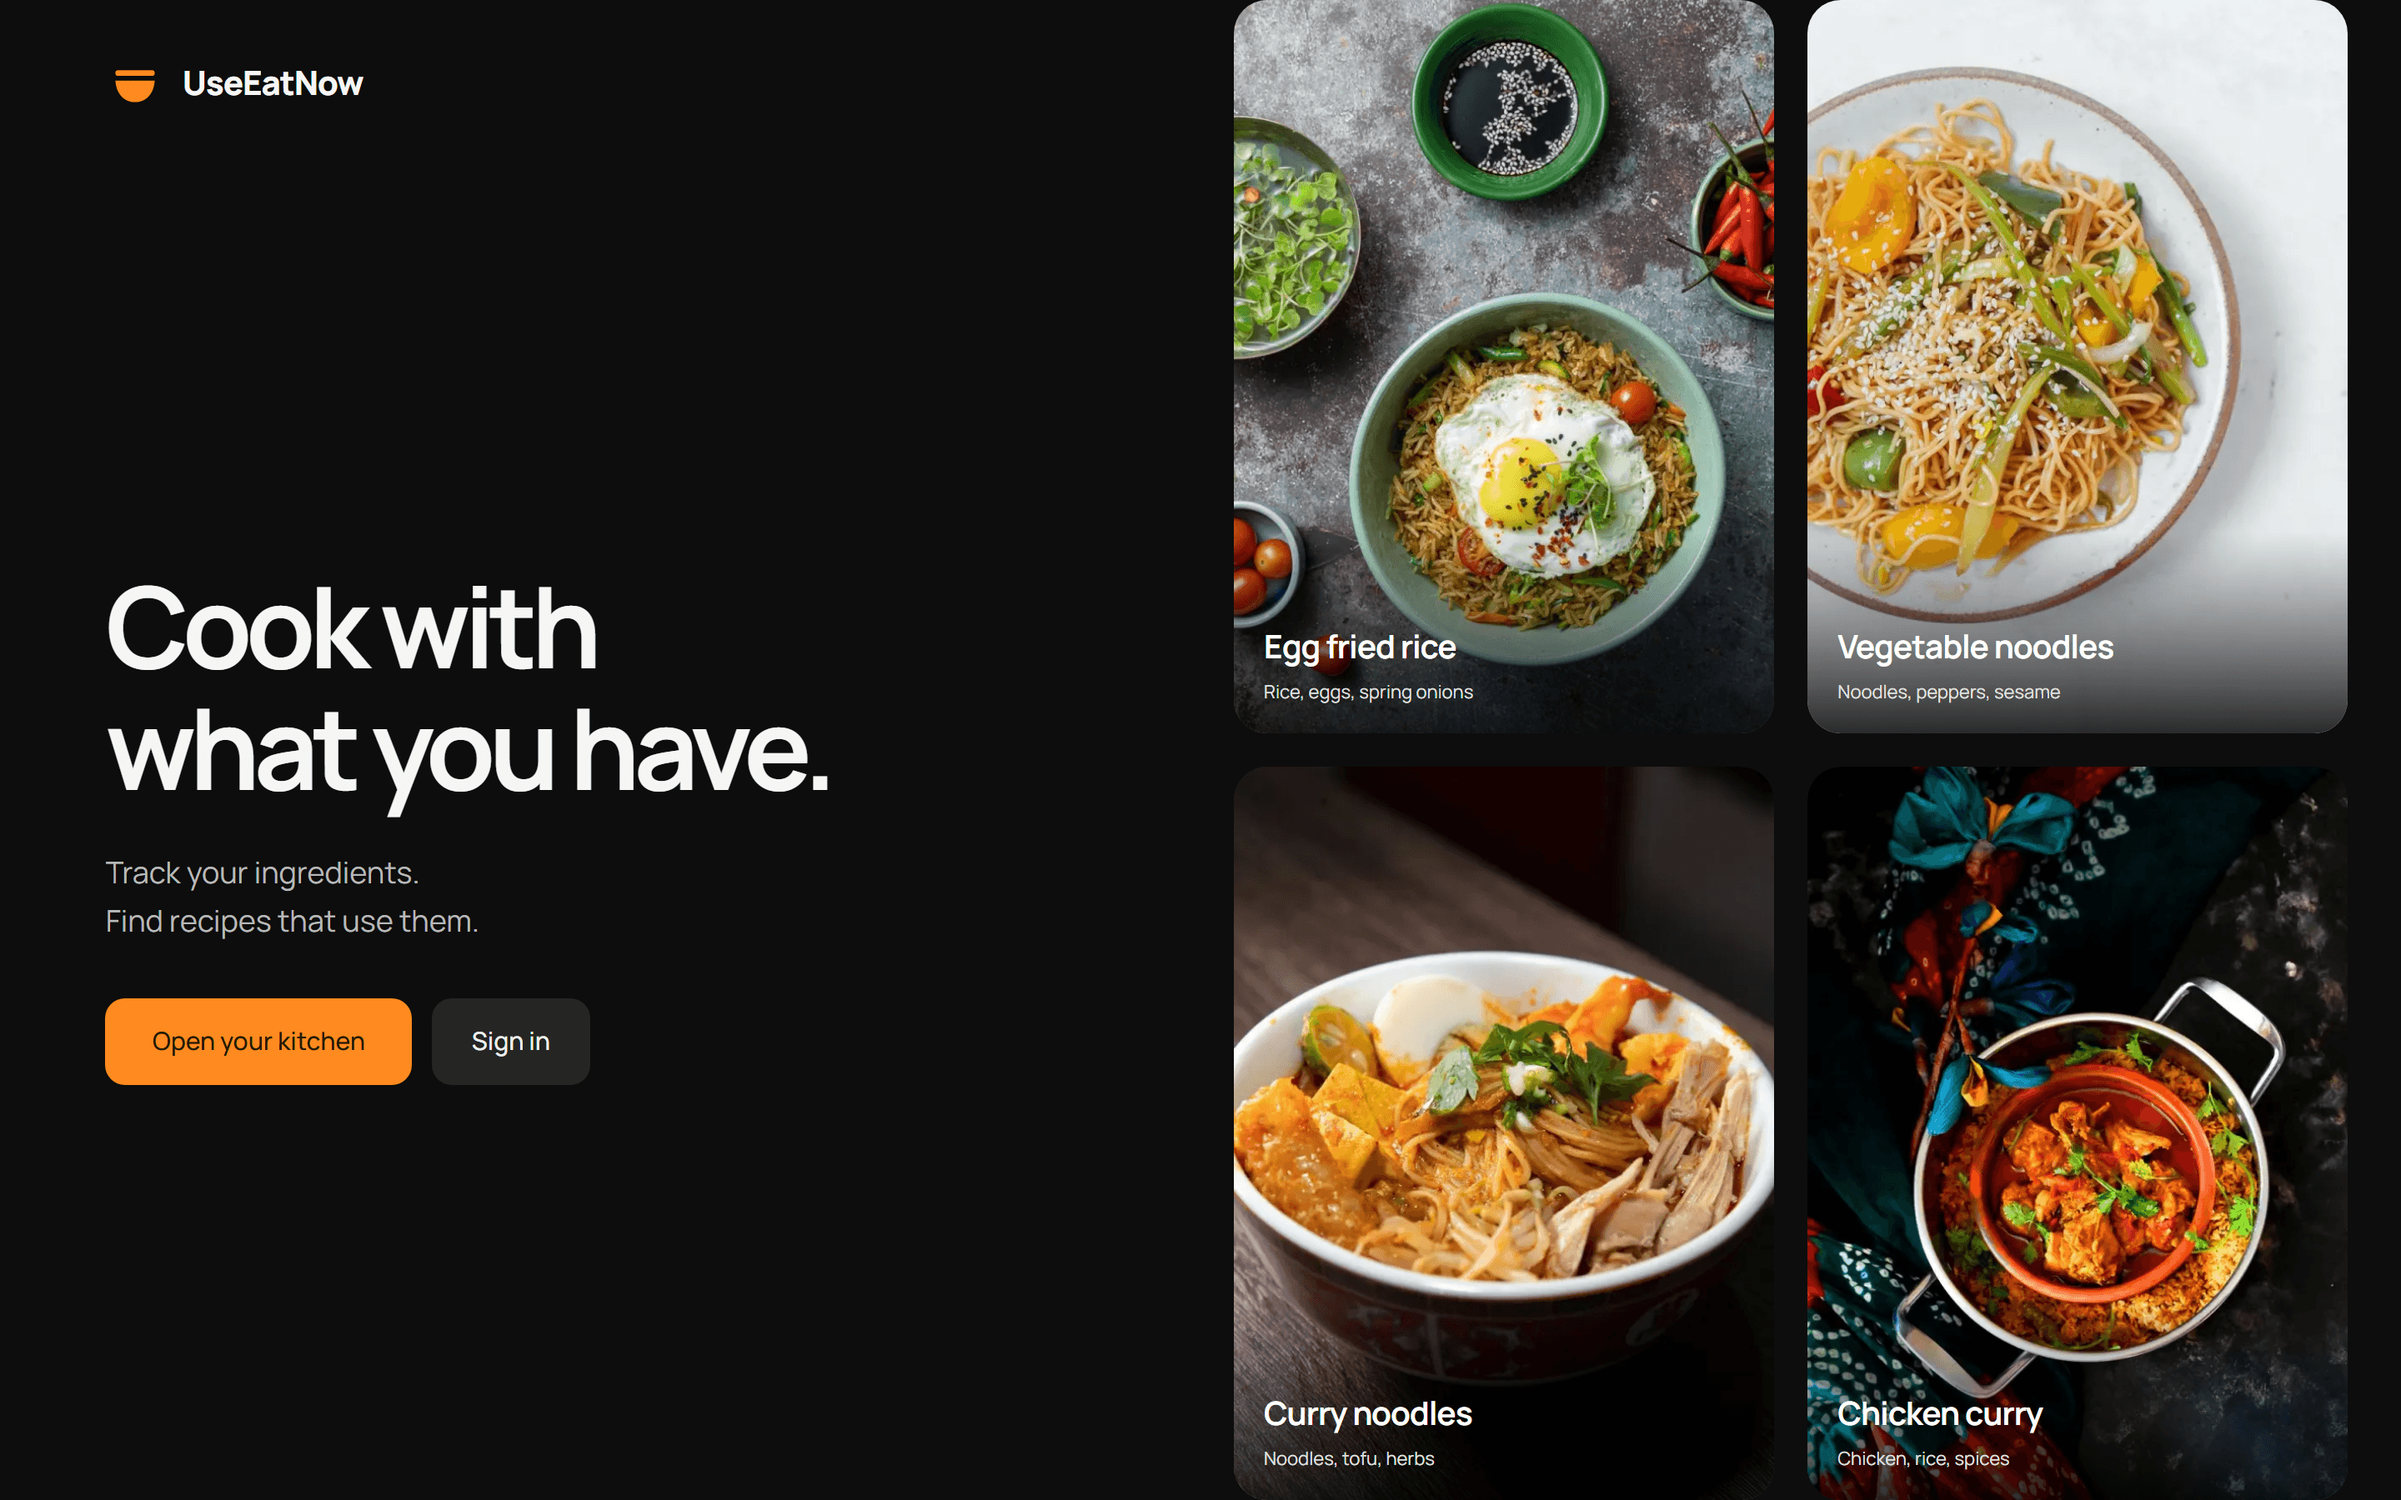
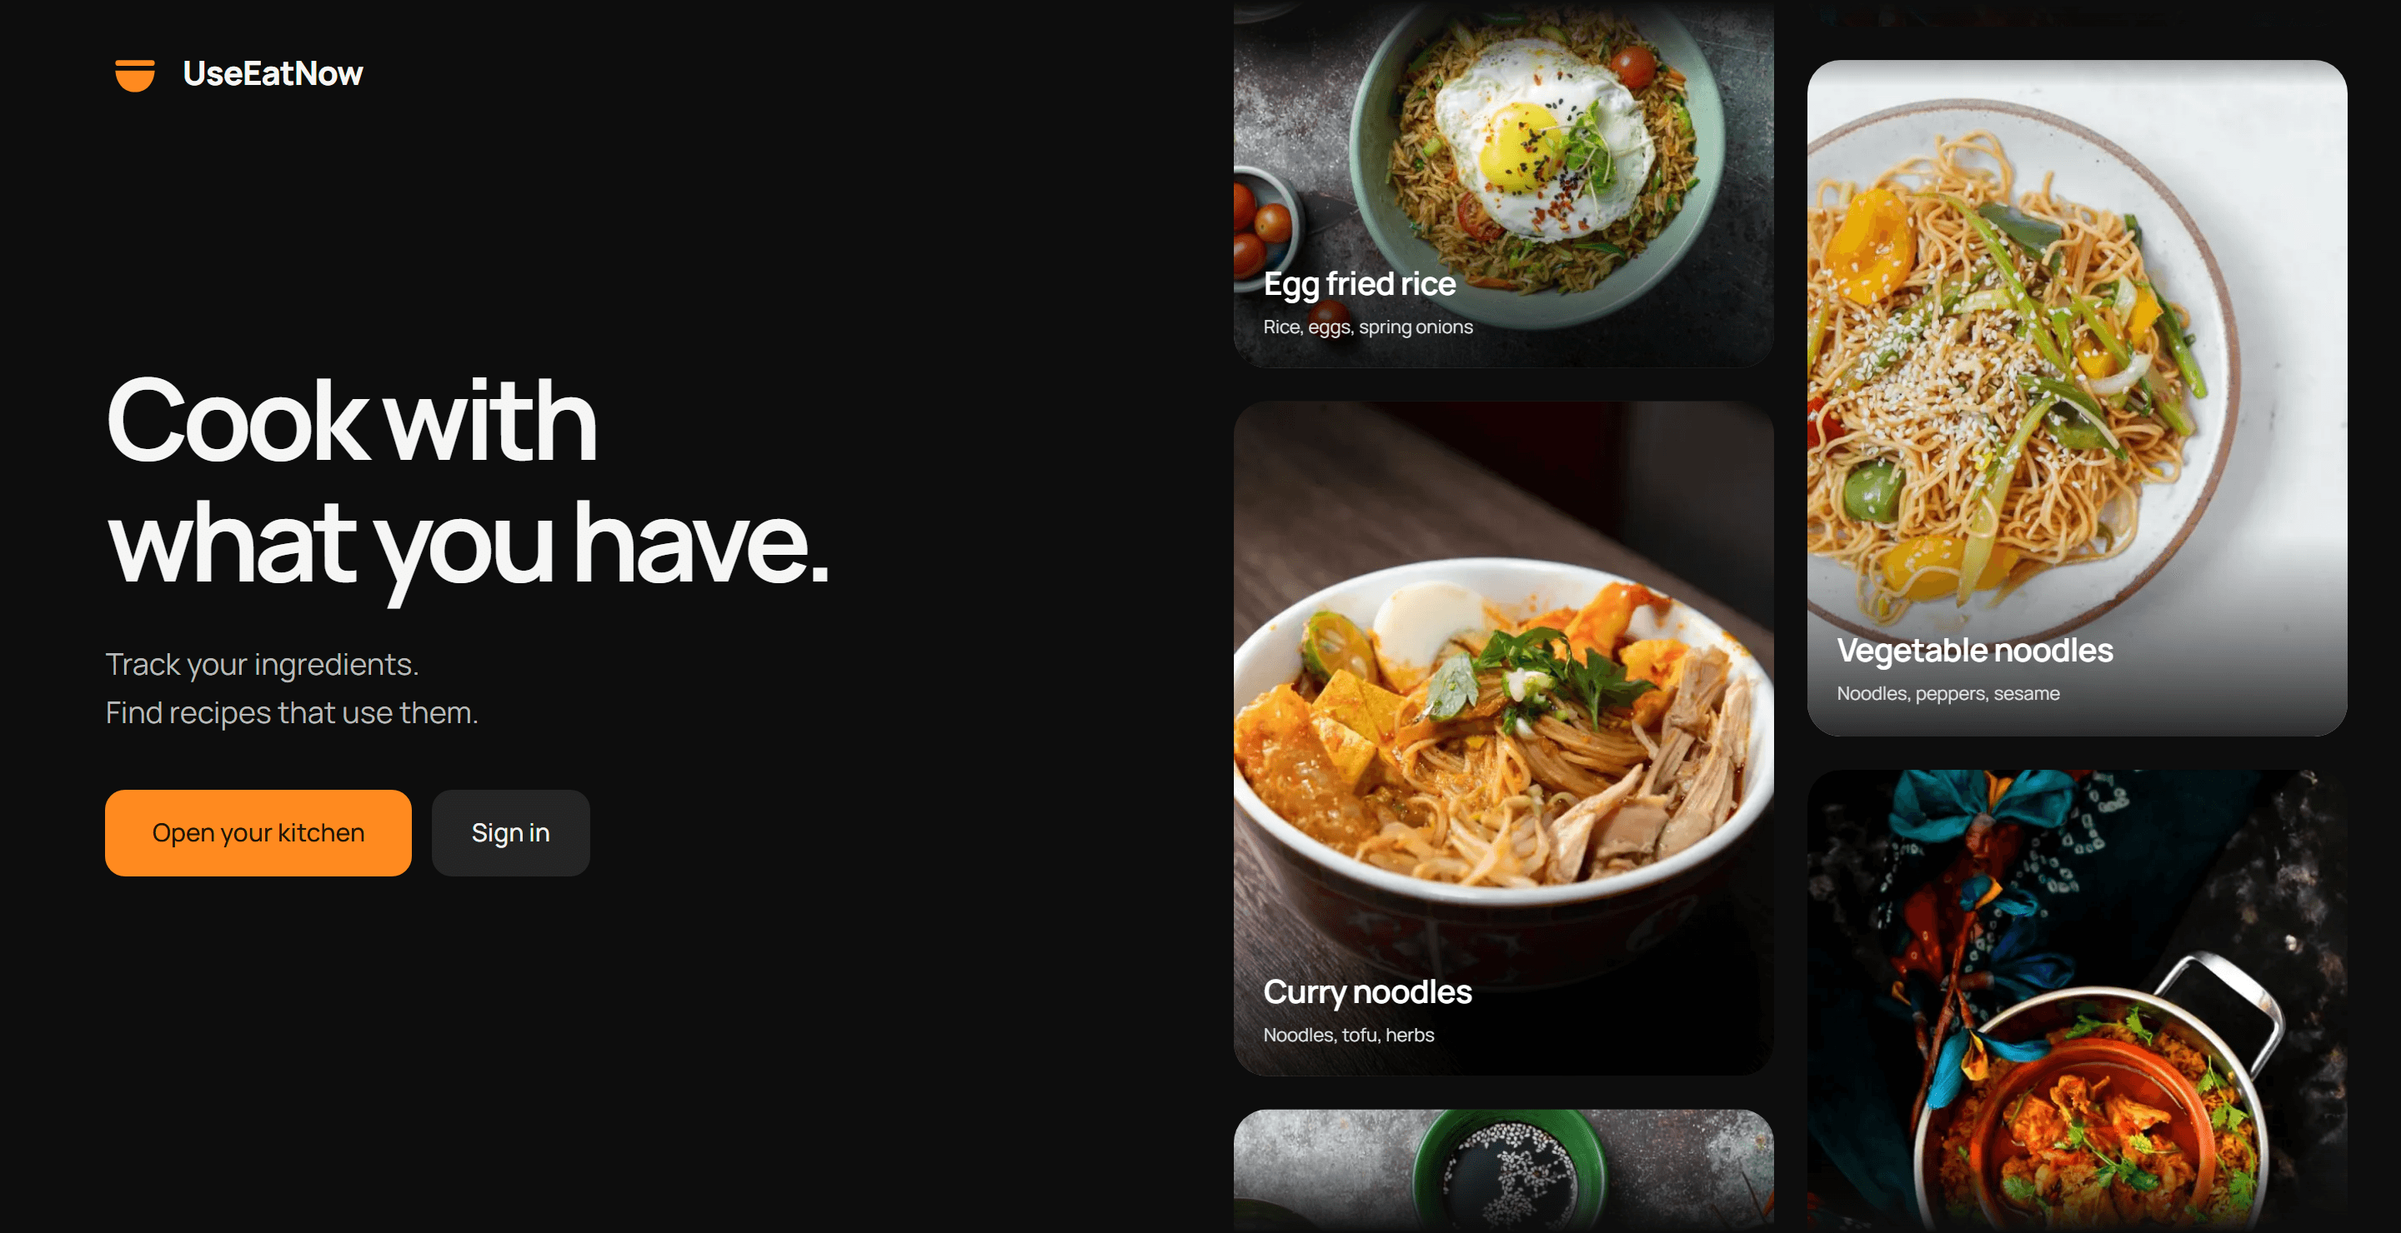
fix: center landing content and refine README preview

diff --git a/src/components/landing.module.css b/src/components/landing.module.css
@@ -12,10 +12,12 @@
 }
 .header {
   grid-area: header;
+  z-index: 1;
   padding-top: clamp(24px, 3.5vh, 40px);
 }
 .main {
   grid-area: main;
+  grid-row: 1 / -1;
   display: flex;
   align-items: center;
   min-width: 0;
@@ -72,6 +74,7 @@
     text-align: center;
   }
   .main {
+    grid-area: main;
     justify-content: center;
     text-align: center;
   }
@@ -115,6 +118,7 @@
     text-align: left;
   }
   .main {
+    grid-row: 1 / -1;
     justify-content: flex-start;
     text-align: left;
   }

diff --git a/docs/deployment.md b/docs/deployment.md
@@ -36,7 +36,7 @@ From the application root:
 
 1. Authenticate the Supabase and Vercel CLIs; obtain private `.env.hosted`.
 2. Link Vercel with `pnpm dlx vercel@61.0.0 link --project useeatnow-sg-demo --scope aqilakmal-project`.
-3. Complete the [full release checks](#release-checks) for the revision being deployed.
+3. Complete the applicable [release checks](#release-checks) for the revision being deployed.
 4. Run the required database/configuration steps below. Review each dry run before applying changes.
 
 ```sh
@@ -101,6 +101,13 @@ with the delivered build; record each subsequent delivery separately.
 
 ## Release checks
 
+Match verification to the change. Documentation and screenshot updates need formatting,
+link and visual checks, with no application deployment. Layout-only changes need
+`pnpm check`, focused browser checks at mobile and desktop sizes, and a live smoke check.
+Changes to application behavior, authentication, APIs, database operations or dependencies
+require the full release workflow below. Promoting an unchanged, tested build needs only
+the live smoke check.
+
 From the repository root:
 
 ```sh
@@ -112,7 +119,7 @@ gh run watch RUN_ID --exit-status
 Replace `RUN_ID` with the listed run. Confirm its commit matches the checkout being
 deployed and that fast checks plus both browser jobs passed. Download all three
 artifacts and retain them with the release commit. PR smoke checks provide quick
-feedback; this full run is the production release gate.
+feedback; this full run is required for the functional changes listed above.
 
 ## Initial setup / credentials
 

diff --git a/docs/development.md b/docs/development.md
@@ -181,7 +181,9 @@ pnpm test:browser:smoke # Critical flows on Chromium mobile/desktop.
 SQL tests roll back. Browser tests start an isolated app on port 3100, clean up
 fixtures and mock AI responses.
 
-Before release, run `pnpm test:browser` for the full Chromium/Firefox matrix at
+For layout-only changes, run the affected browser checks at mobile and desktop sizes.
+For changes to application behavior, authentication, APIs, database operations or dependencies,
+run `pnpm test:browser` for the full Chromium/Firefox matrix at
 360×800 and 1366×768. Chromium emulates mobile/touch; Firefox uses a narrow viewport.
 Some feature checks also use Pixel 8 and Laptop L dimensions. Record actual case
 viewports with the evidence.

diff --git a/README.md b/README.md
@@ -40,8 +40,12 @@ See the [development workflow](docs/development.md#contributing) for setup, chec
 
 ## Team
 
-Muhammad Faqih Akmal · Phang Wei Zhang · See Toh Jin Jie · Gladys Woo Hui Min ·
-Chin Shao Yang · Eileen Lim Jing Wen.
+- Chin Shao Yang
+- Eileen Lim Jing Wen
+- Gladys Woo Hui Min
+- Muhammad Faqih Akmal
+- Phang Wei Zhang
+- See Toh Jin Jie
 
 ## Project records
 
